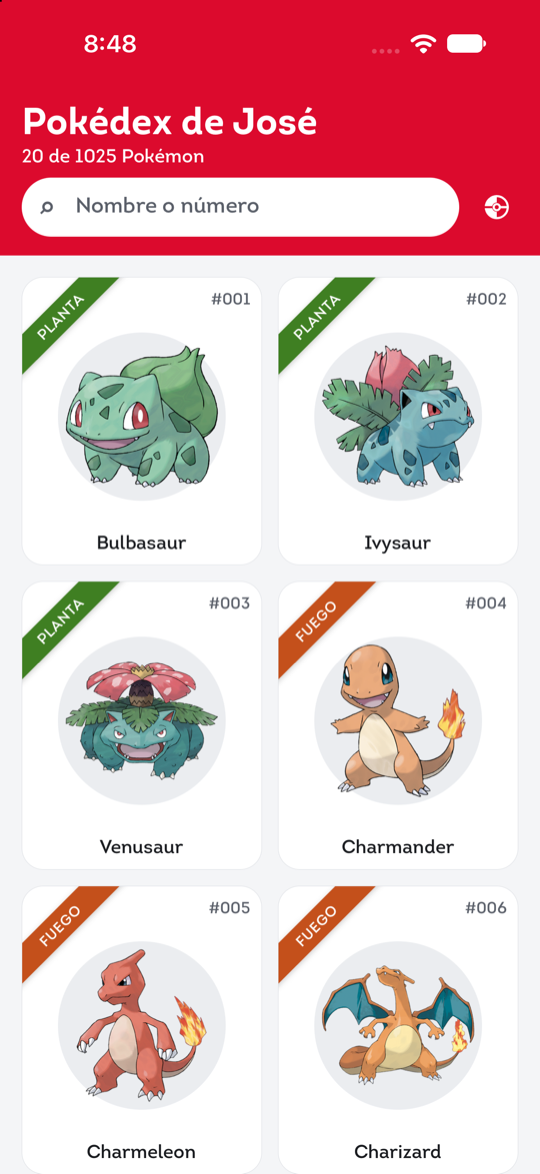
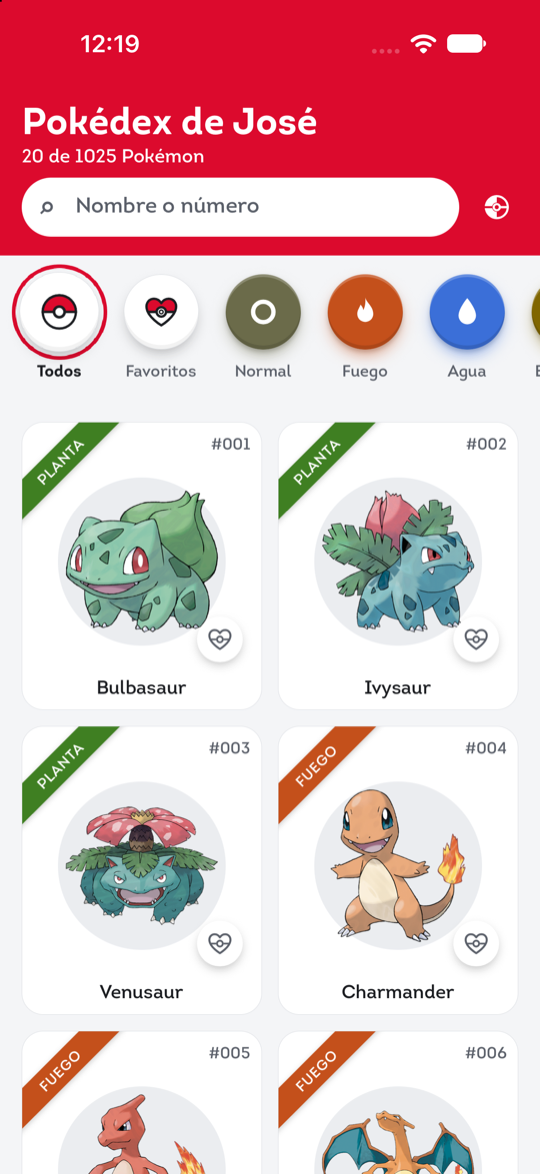
docs: actualiza README con filtros, favoritos, evoluciones y debilidades

diff --git a/README.md b/README.md
@@ -1,15 +1,15 @@
 # Pokédex de José — React Native
 
 Aplicación móvil (Android / iOS) que consume [PokéAPI](https://pokeapi.co/). Muestra los
-primeros 20 Pokémon con paginación incremental, un detalle completo y persistencia local
-con soporte offline parcial.
+primeros 20 Pokémon con paginación incremental, búsqueda, filtros por tipo y favoritos, un detalle
+completo (cadena evolutiva, debilidades y resistencias) y persistencia local con soporte offline parcial.
 
 **Sin librerías externas:** `dependencies` contiene solo `react` y `react-native`. Lo que la
 plataforma no trae (almacenamiento persistente, safe area y navegación) se construyó con la
 infraestructura de React Native: TurboModules propios en **Kotlin** y **Swift**, y un stack
 navigator propio en TypeScript.
 
-| Listado (iOS) | Detalle (Android) | Offline: detalle cacheado | Offline: sin caché |
+| Listado con filtros y favoritos (iOS) | Detalle con evoluciones (Android) | Offline: detalle cacheado | Offline: sin caché |
 |---|---|---|---|
 | <img src="docs/screenshots/ios-list.png" width="200"/> | <img src="docs/screenshots/android-detail.png" width="200"/> | <img src="docs/screenshots/android-offline-detail.png" width="200"/> | <img src="docs/screenshots/android-offline-error.png" width="200"/> |
 
@@ -76,8 +76,8 @@ npm run ios            # o: yarn ios
 ## 3. Pruebas y calidad
 
 ```sh
-npm test               # 177 pruebas: unitarias, de componentes e integración
-npm run test:coverage  # cobertura (~92 % de líneas)
+npm test               # 236 pruebas: unitarias, de componentes e integración
+npm run test:coverage  # cobertura (~94 % de líneas)
 npm run typecheck      # tsc --noEmit (strict)
 npm run lint           # ESLint (@react-native)
 npm run format:check   # Prettier
@@ -96,7 +96,11 @@ El proyecto se construyó con **SDD**. Los artefactos viven en el repositorio y 
 | [`specs/001-pokedex/spec.md`](specs/001-pokedex/spec.md) | Requisitos del PDF con ID (`FR`, `BR`, `NFR`) y criterio de aceptación |
 | [`specs/001-pokedex/plan.md`](specs/001-pokedex/plan.md) | Arquitectura y **decisiones técnicas (ADR-01…08)** |
 | [`specs/001-pokedex/tasks.md`](specs/001-pokedex/tasks.md) | Tareas trazables a requisitos |
-| [`specs/002-ux-enhancements/`](specs/002-ux-enhancements/spec.md) | Mejoras fuera del PDF (búsqueda, tema, cinta de tipo…) con su plan (ADR-10…15) y tareas |
+| [`specs/002-ux-enhancements/`](specs/002-ux-enhancements/spec.md) | Mejoras fuera del PDF (búsqueda, tema, cinta de tipo…) con su plan (ADR-10…17) y tareas |
+| [`specs/003-type-filters/`](specs/003-type-filters/spec.md) | Filtros circulares por tipo bajo la búsqueda y header del color del tipo |
+| [`specs/004-type-matchups/`](specs/004-type-matchups/spec.md) | Debilidades y resistencias en el detalle (ADR-18) |
+| [`specs/005-evolution-chain/`](specs/005-evolution-chain/spec.md) | Cadena evolutiva lineal y con ramas, navegable (ADR-19…22) |
+| [`specs/006-favorites/`](specs/006-favorites/spec.md) | Favoritos persistentes con filtro, animación y deshacer (ADR-24…26) |
 | [`AGENTS.md`](AGENTS.md) | Patrón agéntico **Orchestrator–Workers + Evaluator–Optimizer** y compuertas de calidad |
 
 ## 5. Arquitectura
@@ -175,6 +179,10 @@ src/
 | **iOS: `SceneDelegate`** | iOS 27 exige el ciclo de vida UIScene; el template original fallaba al iniciar |
 | **Tipos en el listado vía índice de tipos** (spec 002) | `/type/{tipo}` una vez (~21 KB × 18, cacheado 7 días) en vez del detalle por tarjeta (~279 KB c/u) |
 | **Búsqueda local** (spec 002) | PokéAPI no tiene búsqueda: se descarga y cachea el índice de nombres (~1350) y se filtra en memoria; funciona offline |
+| **Filtros como criterio de búsqueda** (specs 003 y 006) | Tipo y favoritos son criterios más de `SearchPokemonUseCase`, en el dominio; la UI no filtra listas. Filtrar por tipo reutiliza el índice de tipos, sin peticiones nuevas |
+| **Debilidades desde la API** (spec 004, ADR-18) | Se usan las `damage_relations` de las mismas 18 respuestas de `/type/{tipo}` del índice, en vez de una tabla escrita a mano. El cálculo de doble tipo es una función pura del dominio |
+| **Cadena evolutiva guardada bajo cada miembro** (spec 005, ADR-19) | La respuesta es de toda la cadena: se cachea 7 días una entrada por especie, así abrir Charizard después de Charmander no hace peticiones |
+| **Favoritos fuera del caché** (spec 006, ADR-24/25) | Se guardan en `NativeKeyValueStore` con versión propia y sin TTL, así un cambio de esquema del caché no los borra. El repositorio mantiene la lista en memoria y persiste en segundo plano |
 | **Tema: siempre arranca en Sistema** (spec 002, FR-210) | La elección Claro/Oscuro dura la sesión y no se guarda; `Appearance.setColorScheme` para lo nativo. Iconos propios derivados de la esfera Lumen (PNG monocromos + `tintColor`, sin SVG) |
 | **Shared transition propia** (spec 002) | Registro de elementos + clon en overlay animado en el driver nativo; fundido cruzado sincronizado; respaldo si la tarjeta no es visible. Se evaluó hacerla nativa en Kotlin/Swift y se descartó (ADR-14) |
 | **Header colapsable en el driver nativo** (spec 002) | Solo `transform`/`opacity`. El espacio del header se reserva con `paddingTop` en ambas plataformas: en iOS, `contentInset` se descartó porque `UIRefreshControl` lo reescribe al refrescar |
@@ -196,6 +204,13 @@ src/
 - **Búsqueda** por nombre o número (`25`, `#025`), sin distinguir mayúsculas ni acentos, con
   *debounce* y funcionamiento offline.
 - **Cinta diagonal de tipo** en cada tarjeta, con el color del tipo principal.
+- **Filtros por tipo:** fila de círculos bajo la búsqueda (Todos, Favoritos y los 18 tipos). Filtra
+  toda la Pokédex por cualquiera de los tipos, se combina con la búsqueda y tiñe el header del color del tipo.
+- **Favoritos:** corazón-Pokéball en cada tarjeta y en el detalle, con animación de captura y aviso
+  con **Deshacer**. El filtro Favoritos muestra los más recientes primero y funciona offline.
+- **Cadena evolutiva** en el detalle: lineal o con ramas (Eevee), con condiciones legibles
+  (nivel, piedras, amistad, intercambio…). Tocar un miembro abre su detalle.
+- **Debilidades y resistencias** del Pokémon (×4, ×2, ×½, ×¼, ×0), calculadas con sus dos tipos.
 - **Header colapsable:** al hacer scroll, el título se achica y aparecen el ícono de la app, la barra
   de búsqueda fija y el selector de tema.
 - **Modo oscuro** con selector **Sistema / Claro / Oscuro** e iconos propios. La app arranca siempre en **Sistema**.
@@ -227,5 +242,5 @@ Se **eliminaron** del template `react-native-safe-area-context` y `@react-native
 - Sin pruebas E2E (Detox/Maestro son dependencias externas). El flujo offline se verificó
   manualmente en Android (build release en modo avión); ver capturas.
 - Nombres de habilidades en inglés (traducirlos requiere una llamada extra por habilidad).
-- Filtros por tipo: pospuestos. El índice de tipos ya está listo para habilitarlos sin peticiones nuevas.
-- Favoritos fuera de alcance.
+- Cadena evolutiva sin megaevoluciones ni formas regionales: la API no las incluye en `evolution-chain`.
+- Los favoritos son locales al dispositivo (sin sincronización entre dispositivos).
